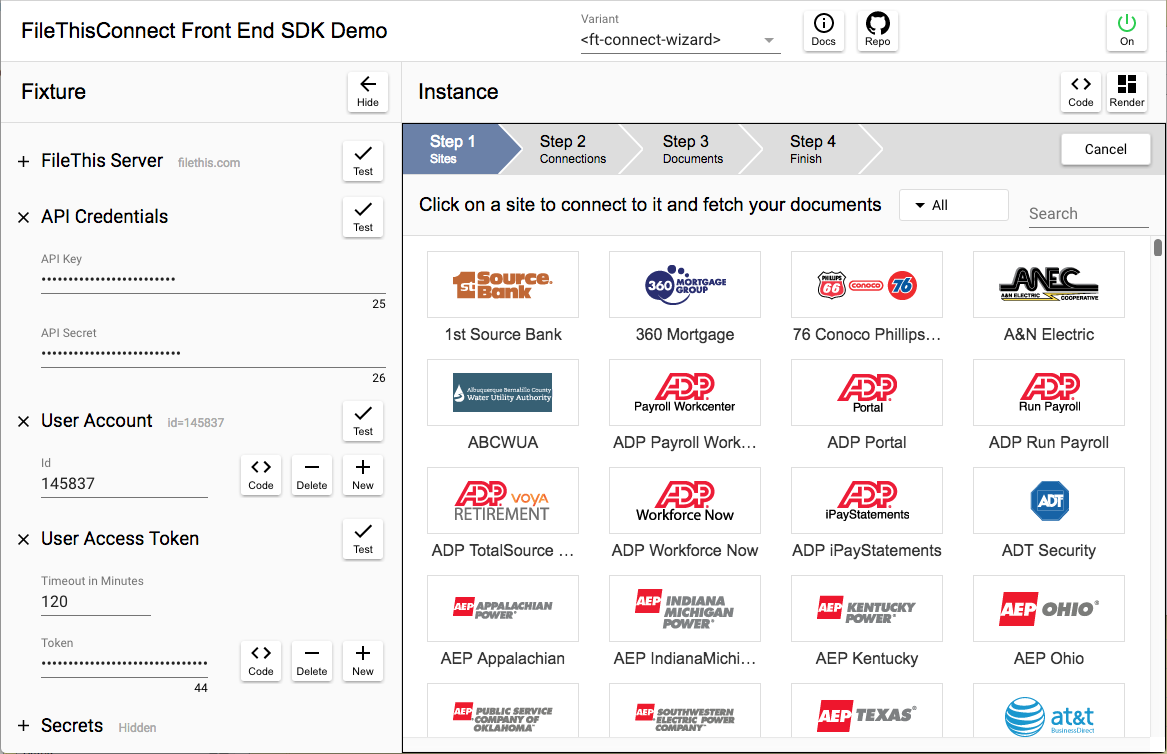
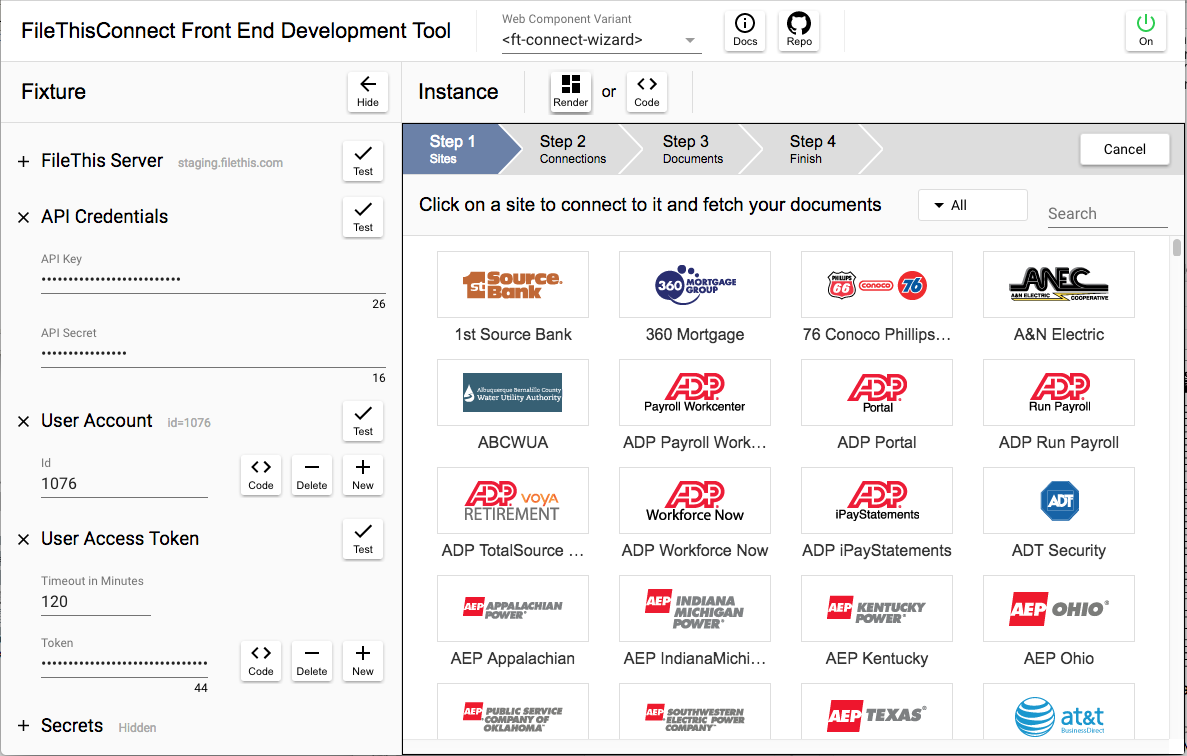
Stragglers

diff --git a/docs/front-end/ft-development-tool.md b/docs/front-end/ft-development-tool.md
@@ -1,22 +1,23 @@
-# FileThisConnect Demo
+# Overview
 
-![Thumbnail](assets/ft-connect-demo.png)
+![Thumbnail](assets/ft-development-tool.png)
 
-The _FileThisConnect Demo_ is a single-page application that embeds an instance of the FileThisConnect web component element. It's a fixture that wraps a UI around the component, letting you configure, control, and play with the instance. All you need to make it work are your FileThis partner account API key and API secret strings. You can obtain copies of these strings by copying them out of your FileThis partner admin console. If you do not have a FileThis partner account, please contact <oem@filethis.com>.
+The _FileThisConnect Front End Development Tool_ is a single-page application that embeds an instance of the FileThisConnect web component element. It's a fixture that wraps a UI around the component, letting you configure, control, and play with the instance. All you need to make it work are your FileThis partner account API key and API secret strings. If you do not have a FileThis partner account yet, please contact <oem@filethis.com>.
 
-The purpose of the demo app is to let you get familiar with how the available variants of the web component appear and behave, and how they guide users through complete document fetching workflows, without yet looking "under the hood" to see how the web component element is wired up.
-
-Once you've completed this section you'll be ready to learn how to embed the FileThisConnect web component into a very simple website that you serve from your development machine.
+In this section, you'll get familiar with how the available variants of the web component appear and behave, and how they guide users through complete document fetching workflows, without yet looking "under the hood" to see how the web component is wired up.
 
 ## Loading the App
 
 Start by loading the demo app into your browser from [here](https://filethis.github.io/ft-connect-demo/).
 
-Note that the values you enter into most of the fields in this app will be stored in the browser's local storage for your convenience. When you visit the page again, or refresh it, the fields will retain the values you entered previously. Fields which contain secrets are not stored with encryption. If you're not comfortable with leaving them there between sessions, you may click the "Clear" button at the bottom right of the configuration panel when you're done working.
+Note that the values you enter into most of the fields in this app will be stored in the browser's local storage for your convenience. When you visit the page again, or refresh it, the fields will retain the values you entered previously. Fields which contain secrets are not stored with encryption. If you're not comfortable with leaving them there between sessions, you can click the "Clear" button in the "Secrets" item in the fixture panel when you're done working:
+
+![Thumbnail](assets/ft-clear-secrets-button.png)
+
 
 ## Fixture Configuration
 
-1. If the configuration side-panel on the left of the window is not open, click the right-pointing arrow button at the upper left of the window to open it.
+1. If the _Fixture_ side-panel on the left of the window is hidden, click the right-pointing arrow button at the upper left of the window to show it.
 2. Copy and paste both your API key and API secret strings into the labeled fields.
 3. Verify that they are valid by clicking the "Test" button to the right of the fields.
 4. Create a FileThis user account for testing by clicking the "New" button to the right of the account ID field.
@@ -25,10 +26,10 @@ Note that the values you enter into most of the fields in this app will be store
 7. Create a user access token for the account by clicking the "New" button to the right of the "Token" field.
 8. Observe that a token string appears in the field.
 9. Test the validity of the token by clicking the "Test" button to the right of the field. This is useful for testing whether your token has expired, or not before using it for additional testing.
-10. Observe that there are two "variants" of the FileThisConnect web component available under the popup menu in the middle of the header bar of the main panel: _ft-connect-expand-out_ and _ft-connect-tabbed_. The former lets the user see a number of panels on the screen at the same time, expanding out to the right side of the web component element for each panel. The latter makes better use of screen real estate, placing each panel into a tab bar. You can choose the variant to use now, and you can change it later, even when the web component is active. Other variants will be available shortly.
+10. Observe that there are three "variants" of the FileThisConnect web component available under the popup menu in the middle of the header bar of the main panel: _ft-connect-wizard_, _ft-connect-tabbed_, and _ft-connect-expand-out_. The last one lets the user see a number of panels on the screen at the same time, expanding out to the right side of the web component element for each panel. The second one makes better use of screen real estate, placing each panel into a tab bar. The first one embodies a complete, self-contained user workflow and is recommended as a starting point. Make sure that the _ft-connect-wizard_ is selected before proceeding.
 
 
 
 ## The Next Step
 
-Now that you've been able to play with an instance of the FileThisConnect web component in an application served by our servers, you're ready for the next section in which you'll instantiate the component in a minimal website that is served from your development box.
+Having set up the fixture in the front end development tool, you're ready explore the behavior of a live instance of an embedded FileThis web component in the next section.

diff --git a/docs/front-end/ft-code-generation.md b/docs/front-end/ft-code-generation.md
@@ -1,1 +1,54 @@
-Code Generation
+# Overview
+
+In this section you'll take a look at the code generated by the FileThis development tool for your chosen web component variant and its configuration. This code can be used to easily bring an embedded instance of the component to life in your website.
+
+## Viewing the code
+
+In the _Instance_ panel of the development tool, click the "Code" button:
+
+![Thumbnail](assets/ft-render-or-code.png)
+
+and observe that the main panel switches to show two subpanels with fragments of HTML code:
+
+![Thumbnail](assets/ft-code-panel.png)
+
+The first subpanel contains code that loads the Web Components "polyfill". This is JavaScript code that intelligently patches the user's runtime environment to add any functionality needed by the component that is not yet native in the version of the user's browser. The standard place to put code like this is into the _head_ element of your main index.html page so that it loads early and is available when it's needed.
+
+The second subpanel contains the code that loads the FileThis component code and embeds it onto your chosen page. The first fragment in this subpanel is special kind of link element called an "HTML Import". This will load the referenced code and any HTML import links it contains, recursively, making sure that the same code is not loaded more than once (doing "deduplication"). You will put this link at the top of the page where you want to embed the component.
+
+The second fragment in the second subpanel is the actual component element itself. You will put this at the appropriate spot in the content of your page.
+
+## Deployment Type
+
+In the _Instance_ panel of the development tool, observe that there is a popup menu named "Deployment" that lets you choose between "Drop-in" and "Production":
+
+![Thumbnail](assets/ft-deployment-menu.png)
+
+If you toggle this choice, you'll see that the URL's change in the links in the code subpanels below.
+
+The "Drop-in" option make it very easy to test the FileThis web component because you don't need to provision your site to include the libraries that the component depends upon to run (including the code for the component's own implementation). Note that the URL's for this option are all external and are served from a CDN. Of course, you would not want to use this deployment option in your production system for several reasons. For one, you will want to run all client code through your build pipeline to vulcanize, minify, etc.
+
+The "Production" option is what you'll want to use once you're done testing and prototyping. Note that the URL's in the production links refer to a "bower_components" directory that is relative to the page. You'll learn more in the next section about how to populate this directory.
+
+
+## Configuration
+
+Notice that, by default, the code fragment for instantiating the FileThis component has "handlebar" substitution parameters for two attributes:
+
+![Thumbnail](assets/ft-substitution-parameters.png)
+
+To complete your integration with FileThis, you will need inject these values into your HTML by some means. Your back-end code will obtain the values them by making requests to our API. You don't need to deal with this just yet, but if you'd like to get an idea of what's required, you can click on the "Code" buttons in the "Fixture" panel of the development tool:
+
+![Thumbnail](assets/ft-code-buttons.png)
+
+That will pose a modal dialog that lets you generate code for the server-side language and support library of your choice.
+
+In the meantime, though, we will *cheat* and simply substitute the values that you already obtained in the development tool fixture. Do do this, click to select the checkbox at the bottom of the second code subpanel. Observe that the handlebar substitution parameters are replaced by your fixture's user account id and user access token. You'll copy this code in the next section to embed the component.
+
+## The Next Steps
+
+Now that you've been able to play with a live instance of a FileThis web component, and you have the code that's used to instantiate it, you're ready to try embedding your component code into an actual website.
+
+If you're ambitious, and if it's easy, you might just try dropping the generated code above into your existing website on a dev server. It will render and function just as it should, talking to our production server. Of course it's not real, in the sense that you've cheated by using hard-coded access parameters (and the token will expire, furthermore), and you haven't done your back-end integration yet to do things like receive fetched documents, but it might be exciting to see things run on your site.
+
+In the next section, you'll embed the component into a minimal website that is served from your development box.

diff --git a/docs/front-end/ft-rendered-component.md b/docs/front-end/ft-rendered-component.md
@@ -1,9 +1,8 @@
+# Overview
 
-## Bringing the Web Component to Life
+Having created a FileThis user account and user access token, you can now inject these into the instance of the FileThisConnect web component that is embedded in the development tool's main panel. To turn it on, click the "power" button at the top right of the window. You should see the component render, showing a list of company logos for websites from which we can fetch documents. The component is now "alive" and communicating with the FileThis production server.
 
-Having created a FileThis user account and user token, these will be injected into the instance of the FileThisConnect web component element for you. The main panel of the demo app is where the component is embedded. To turn it on, click the "power" button at the top right of the window. You should see the component appear, showing a list of company logos for websites from which we can fetch documents. The component is now "alive" and communicating with the FileThis production server.
-
-If an error occurs during the use of the web component instance, an error dialog will be displayed by the demo app, and the component will be turned off, as indicated by the power button at the top right. The expiration of the user token is one such error case. When you embed the component into your product's website, you will likely wire up your own handler for error events to deal with things in your own way.
+If an error occurs during the use of the web component instance, an error dialog will be displayed by the demo app, and the component will be turned off, as indicated by the power button at the top right. The expiration of the user access token is one such error case. When you embed the component into your product's website, you will likely wire up your own handler for error events to deal with things in your own way.
 
 Depending on which variant of the web component you selected, you will see one or more of the "panel" sub-components at different points in the user workflows. We describe each of these, next.
 
@@ -13,7 +12,7 @@ Depending on which variant of the web component you selected, you will see one o
 
 The first step in any FileThis user workflow is to allow the user to find and select a company website from which they can fetch their documents. The FileThisConnect web component variants all begin by presenting the user with a list of all companies to which we can connect. We have a sub-component named [ft-source-panel](https://filethis.github.io/ft-source-panel/components/ft-source-panel/) which provides this functionality.
 
-The web component instance in your demo app begins by displaying a list of companies in the ft-source-panel. Note that users can narrow down which companies are displayed by selecting a filter preset from a popup menu, and/or by entering a search string which matches company names. When the user recognizes a company to which they want to connect, they click its logo. When they do so, the component poses a modal dialog that prompts them to enter their username and password for the site's account:
+The web component instance in your development tool app begins by displaying a list of companies in the ft-source-panel. Note that users can narrow down which companies are displayed by selecting a filter preset from a popup menu, and/or by entering a search string which matches company names. When the user recognizes a company to which they want to connect, they click its logo. When they do so, the component poses a modal dialog that prompts them to enter their username and password for the site's account:
 
 ![Thumbnail](assets/ft-create-connection-dialog.png)
 
@@ -50,4 +49,9 @@ If you're curious about the data schema used internally by FileThis to represent
 
 ![Thumbnail](assets/ft-document-panel.png)
 
-We mentioned above that as documents start to be fetched from a company website for the connections created by a user, we display thumbnails of their first page in our web component. This uses an instance of our [ft-document-panel](https://filethis.github.io/ft-document-panel/components/ft-document-panel/) sub-component. The display of this panel is optional, but it gives the user a rewarding sense that real work is being done on their behalf.
+We mentioned above that as documents start to be fetched from a company website for the connections created by a user, we display thumbnails of their first page in our web component. This uses an instance of our [ft-document-panel](https://filethis.github.io/ft-document-panel/components/ft-document-panel/) sub-component.
+
+
+## The Next Step
+
+In the next section you'll look behind the live web component to see the code that is used to embed it into an HTML page.

diff --git a/docs/front-end/ft-connect-minimal-site.md b/docs/front-end/ft-connect-minimal-site.md
@@ -1,8 +1,8 @@
-# FileThisConnect Minimal Site
+# Overview
 
-The _FileThisConnect Minimal Site_ is a simple website that embeds an instance of the FileThisConnect web component element. Unlike the _FileThisConnect Demo_ application that you used in the [previous section](ft-connect-demo.md), this website will be served from your own development machine, not from _filethis.com_. Because you'll have the site's source files, you'll be able to see just how simple the embedding is. Also, when you've finished, you'll have installed a number of development tools that you'll need in the final section. 
+The _FileThisConnect Minimal Site_ is a simple website that embeds an instance of the FileThisConnect web component element. Unlike the FileThis development tool that you used in the previous section, this website will be served from your own development machine, not from _filethis.com_. Because you'll have the site's source files, you'll be able to see just how simple the embedding is. Also, when you've finished, you'll have installed a number of development tools that you'll need in the final section. 
 
-True to its name, this website is "minimal" in that there is no support in it for creating a FileThis user account or user access token, as there was in the _FileThisConnect Demo_ fixture's UI. You'll simply paste pre-created user account id and access token strings into the component's element attributes in the main HTML file. In the next section, where you embed the component into your actual website, your code will obtain these values by calling our API and then injecting them into the component programmatically.
+True to its name, this website is "minimal" in that there is no support in it for creating a FileThis user account or user access token, as there was in the FileThisConnect development tool's fixture UI. You'll simply paste the code generated by the development tool into the site's main HTML file.
 
 All of the FileThis web components, sub-components, demo and sample applications are available as open source in public GitHub repositories. The code for this website, named `ft-connect-minimal-site`, lives [here](https://github.com/filethis/ft-connect-minimal-site). The instructions below will ask you to download a copy of it to your machine.
 
@@ -133,13 +133,13 @@ You will see a lot of progress information go by. It should complete without err
 
 When done, take a look in your project directory and observe that it contains a new directory called _bower_components_. This new directory contains all the libraries that the project depends on.
 
-## Runtime configuration
+## Drop in the component
 
 As mentioned above, this project does not provide any runtime support for either creating a FileThis user account, or for obtaining a user access token. You will need to paste literal values for both of these into the source code before running it.
 
 #### Get an account ID and user access token
 
-Open the [FileThisConnect Demo](https://filethis.github.io/ft-connect-demo/) application now and copy a valid FileThis account id and a user access token from it. You may want to create a fresh token so that it does not expire anytime soon.
+Open the [FileThisConnect Development Tool](https://filethis.github.io/ft-connect-demo/) application now and copy a valid FileThis account id and a user access token from it. You may want to create a fresh token so that it does not expire anytime soon.
 
 #### Configure the account ID and user access token
 
@@ -163,4 +163,4 @@ You may be wondering how things are handled once you move your code from your de
 
 ## The Next Step
 
-You've now brought up the minimal app on your development box and have installed a number of development tools there. The next section will help guide you through actually embedding an instance of the FileThisConnect element into your own website.
+You've now brought up the minimal app on your development box and have installed a number of development tools there, you're ready to move on to embedded the component and starting to work on your back-end integration with FileThis. Please contact us on our Slack channel for further guidance.

diff --git a/docs/index.md b/docs/index.md
@@ -1,11 +1,5 @@
 # Welcome!
 
-These pages will walk you through embedding the FileThis web components into your website. With very little coding on your part, you can present your users with a UI that provides a simple workflow for collecting documents —from their online accounts— and then delivering them to your service on your users' behalf. 
+These pages will walk you through embedding the FileThis web components into your website. With very little coding on your part, you can present your users with a UI that provides a simple workflow for collecting documents from their online accounts, and then delivering them to your service on your users' behalf. 
 
-We've divided the instructions here into three steps. You can work your way through each step by clicking on the items in the table of contents to the left, or by just clicking the "Next" button when you come to the end of each section.
-
-In the first step, you will enter your FileThis partner API credentials into an online web application and see the web components in action.
-
-In the second step, you will do a little coding to bring up the FileThis web components in a minimal website that you host on your development workstation.
-
-In the final step, you'll embed the web components into your own website.
+We've divided this guide into a number steps. You can work your way through each step by clicking on the items in the table of contents to the left, or by just clicking the "Next" button when you come to the end of each section.
